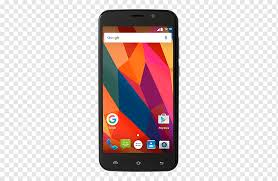
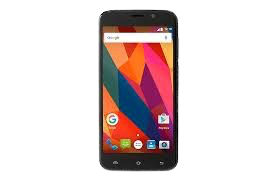
change mobile image and enhanced css

Changed region(s): [[0.0, 0.0, 1.0, 1.0], [0.4029, 0.8011, 0.4317, 0.8287]]

diff --git a/css/styles.css b/css/styles.css
@@ -227,6 +227,10 @@ body {
 .about-me, .projects, .contact-me {
     padding: 50px 20px;
     text-align: center;
+    height: 100vh;
+    display: flex;
+    flex-direction: column;
+    justify-content: center;
 }
 
 @media (max-width: 768px) {
@@ -284,6 +288,8 @@ button:hover {
 .send-message {
     width: 50%;
     color: rgb(255, 255, 255);
+    margin: 20px auto;
+    display: block;
 }
 
 @media (max-width: 768px) {
@@ -327,7 +333,7 @@ form {
     flex-direction: column;
     align-items: center;
     width: 100%;
-    max-width: 400px;
+    max-width: 500px;
     margin: 0 auto;
     padding: 0 15px;
 }
@@ -378,6 +384,8 @@ form button {
     padding: 10px 20px;
     cursor: pointer;
     transition: background-color 0.3s ease;
+    margin: 20px auto;
+    display: block;
 }
 
 form button:hover {
@@ -428,7 +436,8 @@ footer a[href*="linkedin.com"] img {
 .carousel {
     position: relative;
     width: 100%;
-    max-width: 600px;
+    max-width: 1000px;
+    height: 80vh;
     margin: 0 auto;
     overflow: hidden;
     border-radius: 10px;
@@ -451,8 +460,9 @@ footer a[href*="linkedin.com"] img {
 
 .carousel-slide img {
     width: 100%;
+    height: 65vh;
+    object-fit: cover;
     display: block;
-    height: auto;
 }
 
 .carousel-nav {
@@ -531,4 +541,22 @@ form .form-control-lg {
 
 form textarea.form-control-lg {
     height: auto;
+}
+
+@media (max-width: 768px) {
+    .carousel {
+        height: 70vh;
+        max-width: 90%;
+    }
+}
+
+@media (max-width: 480px) {
+    .carousel {
+        height: 60vh;
+        max-width: 95%;
+    }
+}
+
+.highlight-text {
+    color: #ff0000;
 }

diff --git a/index.html b/index.html
@@ -31,9 +31,10 @@
     <section class="about-me text-center py-5" id="about-me">
         <div class="container">
             <h2 class="mb-4">ABOUT ME</h2>
-            <p>A full Stack developer based in New York, USA.</p>
-            <p>I am a Full-Stack Developer with over 10 years of experience in web development and design.</p>
-            <p>My passion is to create beautiful and functional websites that provide an excellent user experience.</p>
+            <p>A full time theme crafter based in Madrid, Spain. I love designing beautiful, clean and user-friendly interfaces for websites.</p>
+            <p>My passion is turning good ideas and products into eye-catching sites. Sometimes I blog about design and web trends. Also I share links and my thoughts on <span class="highlight-text">Twitter</span>.</p>
+            <p>Need a free handsome bootstrap theme? <span class="highlight-text">Done</span>!</p>
+            <p>I'm available for freelance jobs. Contact me now.</p>
             <button class="btn btn-warning about-me-button">I have a freelance job</button>
         </div>
     </section>
